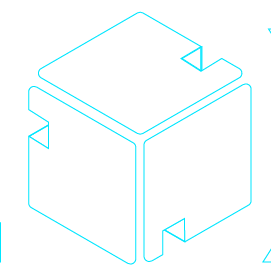
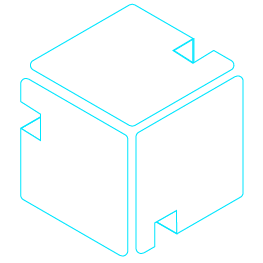
make youtube loader light

diff --git a/components/sections/youtube-loader-light.tsx b/components/sections/youtube-loader-light.tsx
@@ -4,7 +4,7 @@ import { useState, useEffect } from "react";
 import { AnimatedIn } from "../ui/animated-in";
 import "./youtube-loader.css";
 
-export function YoutubeLoader() {
+export function YoutubeLoaderLight() {
   const [done, setDone] = useState(false);
 
   useEffect(() => {
@@ -16,13 +16,13 @@ export function YoutubeLoader() {
 
   return (
     <div
-      className={`absolute inset-0 z-110 bg-gradient-to-br from-slate-900 via-slate-800 to-slate-900 transition-opacity duration-700 ${
+      className={`absolute inset-0 z-110 bg-gradient-to-br from-slate-50 via-white to-slate-100 transition-opacity duration-700 ${
         done ? "opacity-0 pointer-events-none" : ""
       }`}
     >
       {/* Subtle animated gradient overlay */}
       <div
-        className="absolute inset-0 bg-gradient-to-tr from-blue-500/10 via-purple-500/10 to-pink-500/10"
+        className="absolute inset-0 bg-gradient-to-tr from-blue-500/5 via-purple-500/5 to-pink-500/5"
         style={{
           animation: "pulseGradient 2s cubic-bezier(0.4, 0, 0.6, 1) infinite",
         }}
@@ -33,12 +33,12 @@ export function YoutubeLoader() {
         <div className="w-full max-w-6xl grid grid-cols-1 md:grid-cols-[1.5fr_1fr] gap-8 md:gap-12 items-center">
           {/* Text content */}
           <div className="text-center md:text-left space-y-4 md:space-y-6">
-            <h1 className="text-4xl sm:text-5xl md:text-6xl lg:text-7xl xl:text-8xl font-bold text-white leading-tight">
+            <h1 className="text-4xl sm:text-5xl md:text-6xl lg:text-7xl xl:text-8xl font-bold text-primary leading-tight">
               <AnimatedIn delay={0} splitChars charDelay={40}>
                 Introducing Qblox
               </AnimatedIn>
             </h1>
-            <h2 className="text-base sm:text-lg md:text-xl lg:text-2xl xl:text-3xl text-white/90  max-w-xl mx-auto leading-relaxed">
+            <h2 className="text-base sm:text-lg md:text-xl lg:text-2xl xl:text-3xl text-muted-foreground max-w-xl mx-auto leading-relaxed">
               <AnimatedIn delay={800} splitChars charDelay={20}>
                 the groundbreaking building blocks which redefines 3D thinking
                 and creativity.
@@ -48,15 +48,21 @@ export function YoutubeLoader() {
 
           {/* Spinning cube */}
           <div className="flex justify-center md:justify-end items-center">
-            <AnimatedIn delay={1500}>
+            <div
+              className="opacity-0"
+              style={{
+                animation: "fadeInUp 1.2s ease-out forwards",
+                animationDelay: "600ms",
+              }}
+            >
               <div style={{ animation: "spinSlow 8s linear infinite" }}>
                 <img
-                  src="/qube.png"
+                  src="/fave.png"
                   alt="Qblox Cube"
                   className="w-24 h-24 sm:w-32 sm:h-32 md:w-48 md:h-48 lg:w-56 lg:h-56 xl:w-64 xl:h-64 object-contain"
                 />
               </div>
-            </AnimatedIn>
+            </div>
           </div>
         </div>
       </div>

diff --git a/components/sections/hero-video.tsx b/components/sections/hero-video.tsx
@@ -8,6 +8,7 @@ import { ContactUs } from "../blocks/form";
 import { cn } from "@/lib/utils";
 import Image from "next/image";
 import { YoutubeLoader } from "./youtube-loader";
+import { YoutubeLoaderLight } from "./youtube-loader-light";
 function HeroOverlay() {
   return <div className="absolute inset-0 bg-black/35" />;
 }
@@ -91,22 +92,18 @@ function Thumbnail() {
 export function HeroVideo() {
   const [muted, setMuted] = useState(true);
   const videoRef = useRef<HTMLIFrameElement>(null);
-  // const [showVideo, setShowVideo] = useState(false);
-  // useEffect(() => {
-  //   setTimeout(() => {
-  //     setShowVideo(true);
-  //   }, 1000);
-  // }, []);
+  const useLoader = true;
 
-  // Extract video ID for the loop playlist parameter
+  // Extract video ID from the constant
   const videoId = YOUTUBE_EMBED_URL.split("/").pop()?.split("?")[0];
-  const separator = YOUTUBE_EMBED_URL.includes("?") ? "&" : "?";
 
+  // Build URL from scratch to avoid duplicate parameters
   const playerParams = [
     "autoplay=1",
     "mute=1",
     "controls=0",
-    "start=6",
+    `start=${useLoader ? "4" : "6"}`,
+    "end=53",
     "showinfo=0",
     "rel=0",
     "modestbranding=0",
@@ -117,7 +114,12 @@ export function HeroVideo() {
     "playsinline=1",
   ];
 
-  const embedSrc = `${YOUTUBE_EMBED_URL}${separator}${playerParams.join("&")}`;
+  const embedSrc = `https://www.youtube.com/embed/${videoId}?${playerParams.join(
+    "&"
+  )}`;
+
+  console.log("Embed URL:", embedSrc);
+  console.log("Start time:", useLoader ? "3" : "6");
 
   const toggleMute = () => {
     if (videoRef.current?.contentWindow) {
@@ -138,6 +140,7 @@ export function HeroVideo() {
       >
         <div className="absolute inset-0 pointer-events-none">
           <iframe
+            key={embedSrc}
             ref={videoRef}
             className="h-full w-full"
             src={embedSrc}
@@ -147,7 +150,7 @@ export function HeroVideo() {
           />
         </div>
         <Thumbnail />
-        <YoutubeLoader />
+        {useLoader && <YoutubeLoaderLight />}
         <HeroOverlay />
         {/* <div
           className={cn(

diff --git a/components/ui/animated-in.tsx b/components/ui/animated-in.tsx
@@ -4,9 +4,59 @@ interface AnimatedInProps {
   children: ReactNode;
   delay?: number;
   className?: string;
+  splitChars?: boolean;
+  charDelay?: number;
 }
 
-export function AnimatedIn({ children, delay = 0, className = "" }: AnimatedInProps) {
+export function AnimatedIn({
+  children,
+  delay = 0,
+  className = "",
+  splitChars = false,
+  charDelay = 30,
+}: AnimatedInProps) {
+  // If splitChars is enabled and children is a string, split into characters
+  if (splitChars && typeof children === "string") {
+    const words = children.split(" ");
+    let charIndex = 0;
+
+    return (
+      <span className={className}>
+        {words.map((word, wordIndex) => (
+          <span key={wordIndex} className="inline-block whitespace-nowrap">
+            {word.split("").map((char, index) => {
+              const currentCharIndex = charIndex++;
+              return (
+                <span
+                  key={index}
+                  className="inline-block opacity-0"
+                  style={{
+                    animation: "fadeInUp 0.4s ease-out forwards",
+                    animationDelay: `${delay + currentCharIndex * charDelay}ms`,
+                  }}
+                >
+                  {char}
+                </span>
+              );
+            })}
+            {wordIndex < words.length - 1 && (
+              <span
+                className="inline-block opacity-0"
+                style={{
+                  animation: "fadeInUp 0.4s ease-out forwards",
+                  animationDelay: `${delay + charIndex++ * charDelay}ms`,
+                }}
+              >
+                {"\u00A0"}
+              </span>
+            )}
+          </span>
+        ))}
+      </span>
+    );
+  }
+
+  // Default behavior - animate the whole element
   return (
     <span
       className={`inline-block opacity-0 ${className}`}

diff --git a/components/sections/youtube-loader.css b/components/sections/youtube-loader.css
@@ -1,11 +1,9 @@
 @keyframes fadeInUp {
   from {
     opacity: 0;
-    transform: translateY(10px);
   }
   to {
     opacity: 1;
-    transform: translateY(0);
   }
 }
 
